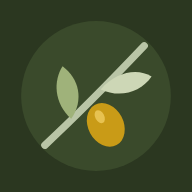
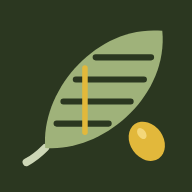
Add files via upload

Changed region(s): [[0.0938, 0.1562, 0.875, 0.875]]

diff --git a/index.html b/index.html
@@ -537,15 +537,14 @@ details.mx summary{cursor:pointer;padding:10px 2px;font-weight:700;color:var(--o
 <header class="band">
   <div class="band-in">
     <div class="brand">
-      <svg class="mark" viewBox="0 0 40 40" aria-hidden="true">
-        <circle cx="20" cy="20" r="19.5" style="fill:var(--band-2)"/>
-        <path d="M8.5 31.5C15.5 25 22 18.5 31.5 8.5" style="stroke:var(--band-ink-2);fill:none" stroke-width="1.6" stroke-linecap="round"/>
-        <path d="M14.6 25.4C10.6 21.8 10.4 16.6 12.6 13.2C16.4 16 17.6 21 14.6 25.4Z" style="fill:var(--leaf)"/>
-        <path d="M21.4 18.6C25 14.4 30 13.6 33.2 15.6C30.6 19.4 25.8 20.6 21.4 18.6Z" style="fill:var(--leaf-2)"/>
-        <ellipse cx="22.6" cy="26.8" rx="4.1" ry="5.3" transform="rotate(-28 22.6 26.8)" style="fill:var(--oil)"/>
+      <svg class="mark" viewBox="0 0 200 200" aria-hidden="true">
+        <path d="M50 158 Q 41 167, 33 171" style="stroke:var(--leaf-2);fill:none" stroke-width="9" stroke-linecap="round"/>
+        <path d="M0 0 C 34 -40, 112 -46, 150 0 C 112 46, 34 40, 0 0 Z" transform="translate(50 158) rotate(-45)" style="fill:var(--leaf)"/>
+        <path d="M95.7 76 L145.9 76 M77.7 96 L139.4 96 M66.5 116 L127.4 116 M60.3 136 L107.5 136" style="stroke:var(--band);fill:none" stroke-width="8" stroke-linecap="round"/>
+        <ellipse cx="142" cy="152" rx="16" ry="20" transform="rotate(-35 142 152)" style="fill:var(--oil)"/>
       </svg>
       <div>
-        <div class="farm">Zeytinlik Defterim</div>
+        <div class="farm">zeytinlik defterim</div>
         <div class="place" id="farmPlace">Hasat, bakım ve masraf defteri</div>
       </div>
     </div>

diff --git a/sw.js b/sw.js
@@ -1,5 +1,5 @@
 /* Zeytinlik Defterim © 2026 Fatih Aybars TAHTALI. Tüm hakları saklıdır. */
-const V = 'zd-20261029194727';
+const V = 'zd-20261030091436';
 const CORE = ['./', './index.html', './manifest.webmanifest', './icon-192.png', './icon-512.png', './apple-touch-icon.png'];
 self.addEventListener('install', e => {
   e.waitUntil(caches.open(V).then(c => c.addAll(CORE)).then(() => self.skipWaiting()));
